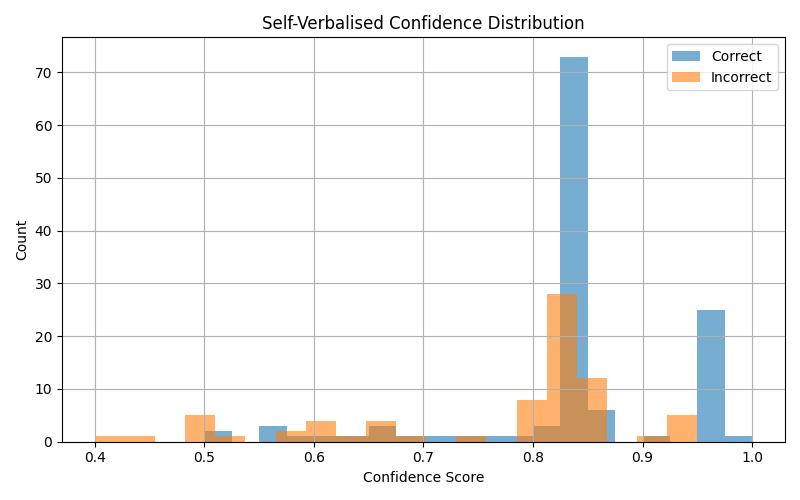
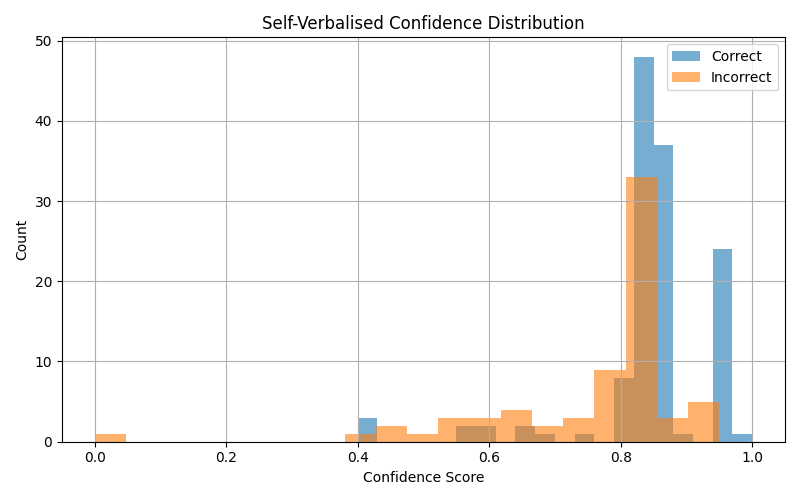
Did some formating and added Aliuses to my parts
YAY

diff --git a/Main.py b/Main.py
@@ -44,11 +44,22 @@ def askModel(prompt, temperature=0):
 #     return output
 
 #two seperate as it makes life easier 
-def make3Prompt(i, j, s):
-    return f""" Check if these three answers are all the same in meaning. Answer 1 {i}. Answer 2 {j}. Answer 3{s}. Answer this question with true or false.   """
+def make3Prompt(i, j, s, Question):
+    return f""" You are checking if a model's answer is correct given a question and known correct answer.
+    Question: {Question}
+    Model Answer 1: {i}
+    Model Answer 2: {j}
+    Model Answer 3: {s}
 
-def make2Prompt(i, j):
-    return f""" Check if these two answers share the same meaning. Answer 1 {i}. Answer 2 {j}. Answer this question with true or false.   """
+    Return just one word: true or false. """
+
+def make2Prompt(i, j, Question):
+    return f""" You are checking if a model's answer is correct given a question and known correct answer.
+    Question: {Question}
+    Model Answer 1: {i}
+    Model Answer 2: {j}
+
+    Return just one word: true or false. """
 
 
 #######################
@@ -88,8 +99,8 @@ for i, item in enumerate(questions, start=1):
     question = item["question"]
     answer = item["answer"]
     aliases = item["aliases"]
-    
-    print(f"[{i + 1}/200] {question}")
+    print("\n#################################################################################")
+    print(f"[{i}/200] {question}")
     
     # This is the entire conistency for each with long output recheck
     resultsCons = analyse_question(question, answer, aliases, n=10)
@@ -143,34 +154,66 @@ for i, item in enumerate(questions, start=1):
     combindedAnswer = "Something went wrong if this is the final answer" #spelt wrong how dumb are you me
     combinedIsTrue = False
     #bad solution using only one of the answers as the conbinedAnswer
-    if (askModel(make3Prompt(answerToken, answerConsistency, answerSelf))):
+    if (askModel(make3Prompt(answerToken, answerConsistency, answerSelf, question))):
         combinedScore = (0.3 * consistencyConfidence +0.3 *selfConfidence +0.4* tokenConfidence)
-        print("using all 3: ", combinedScore, answerSelf, answerToken, answerConsistency)
+        
         #Use conistency as least chance to be carrying on
         combindedAnswer = resultsCons.get("most_common_answer", "")
         combinedIsTrue = resultsCons.get("is_correct")
-    elif (askModel(make2Prompt(answerToken, answerConsistency))):
+        print("All three were the same: ",combindedAnswer,", ", combinedScore)
+        
+    elif (askModel(make2Prompt(answerToken, answerConsistency, question))):
         combinedScore = 0.3 * consistencyConfidence + 0.4 * tokenConfidence
-        print("using Token and Consistency: ", combinedScore)
         combindedAnswer = resultsCons.get("most_common_answer", "")
         combinedIsTrue = resultsCons.get("is_correct")
-    elif (askModel(make2Prompt(answerSelf, answerConsistency))):
+        print("using Token and Consistency: ", combinedScore,", ", combinedScore)
+        
+    elif (askModel(make2Prompt(answerSelf, answerConsistency, question))):
         combinedScore = 0.4 * consistencyConfidence + 0.3 * selfConfidence
-        print("using Self and Consistency: ", combinedScore)
         combindedAnswer = resultsCons.get("most_common_answer", "")
         combinedIsTrue = resultsCons.get("is_correct")
-    elif (askModel(make2Prompt(answerSelf, answerToken))):
+        print("using Self and Consistency: ",combindedAnswer,", ", combinedScore)
+        
+    elif (askModel(make2Prompt(answerSelf, answerToken, question))):
         combinedScore = 0.3 * selfConfidence + 0.4 * tokenConfidence
-        print("using Self and Token: ", combinedScore)
         combindedAnswer = resultFromToken.get("generated_answer")
-        combinedIsTrue = checkCorrect(answerToken, answer, question)
-    else:#I dont care we just using token Im not dealing with more 
-        #if someone does want to do right I assume you choose the one with the highest confidence score
-        combinedScore =  0.4 * tokenConfidence
+        combinedIsTrue = checkCorrect(answerToken, answer, question, aliases)
+        print("using Self Verbalised and Token: ", combindedAnswer,", ", combinedScore)
+        
+        
+    #############################################################################################################
+    #SINGLE ANSWER TECHNIQUE    
+    # we just choosing the one with the highest confidence score tech token first as it has the highest weighting
+    elif tokenConfidence >= selfConfidence and tokenConfidence >= consistencyConfidence:
+        combinedScore = 0.4 * tokenConfidence
         combindedAnswer = resultFromToken.get("generated_answer")
-        combinedIsTrue = checkCorrect(answerToken, answer, question)
-        print("using just one: ", combinedScore)
-    
+        combinedIsTrue = checkCorrect(answerToken, answer, question, aliases)
+        print("Using Just Token: ", combindedAnswer,", ", combinedScore)
+        
+    elif selfConfidence >= tokenConfidence and selfConfidence >= consistencyConfidence:
+        combinedScore = 0.3 * selfConfidence
+        combindedAnswer = answer_data.get("answer", "")
+        combinedIsTrue = checkCorrect(answerSelf, answer, question, aliases)
+        print("Using Just Self Verbalisation: ", combindedAnswer,", ", combinedScore)
+        
+    #could use else probably not to worried about speed though
+    elif consistencyConfidence >= tokenConfidence and consistencyConfidence >= selfConfidence:
+        combinedScore = 0.3 * consistencyConfidence
+        combindedAnswer = resultsCons.get("most_common_answer", "") 
+        combinedIsTrue = resultsCons.get("is_correct")
+        print("Using Just Consistency: ", combindedAnswer,", ", combinedScore)
+        
+    else:
+        print("Something went wrong")
+        # else:#I dont care we just using token Im not dealing with more 
+        # #if someone does want to do right I assume you choose the one with the highest confidence score
+        # combinedScore =  0.4 * tokenConfidence
+        # combindedAnswer = resultFromToken.get("generated_answer")
+        # combinedIsTrue = checkCorrect(answerToken, answer, question)
+        # print("Using Just Token: ", combinedScore,", ", combinedScore)
+        # print("is correct: ", combinedIsTrue)
+    print("ground truth: ", answer)
+    print("is correct: ", combinedIsTrue)
     
     
     resultsCombined.append({

diff --git a/self_verbalisation/SelfVerbalisation.py b/self_verbalisation/SelfVerbalisation.py
@@ -13,9 +13,9 @@ client = OpenAI(
     api_key="ollama"
 )
 
-def checkCorrect(ourAnswer, BaseAnswer, question):
+def checkCorrect(ourAnswer, BaseAnswer, question, aliases):
     #used this so it first checks if the same stole from token also saves time and technically tokens but who cares about that.
-    if (not(ourAnswer.lower().strip() == BaseAnswer.lower().strip() or ourAnswer.lower().strip() in BaseAnswer.lower().strip() or BaseAnswer.lower().strip() in ourAnswer.lower().strip())):
+    if (not(ourAnswer.lower().strip() == BaseAnswer.lower().strip() or ourAnswer.lower().strip() in BaseAnswer.lower().strip() or BaseAnswer.lower().strip() in ourAnswer.lower().strip() or any(ourAnswer.lower().strip() in alias.strip().lower() for alias in aliases ))):
         #Bro PROMPTING IS SO SPECIFIC ITS GHRRRRRRRRRRRRRRRRRRRRRRRRRRRRRRRRR
         prompt = prompt = f"""You are checking if a model's answer is correct given a question and known correct answer.
     Question: {question}
@@ -42,7 +42,7 @@ def checkCorrect(ourAnswer, BaseAnswer, question):
             return False
         else:
             return False
-    return ourAnswer.lower().strip() == BaseAnswer.lower().strip() or ourAnswer.lower().strip() in BaseAnswer.lower().strip() or BaseAnswer.lower().strip() in ourAnswer.lower().strip()
+    return ourAnswer.lower().strip() == BaseAnswer.lower().strip() or ourAnswer.lower().strip() in BaseAnswer.lower().strip() or BaseAnswer.lower().strip() in ourAnswer.lower().strip() or any(ourAnswer.lower().strip() in alias.strip().lower() for alias in aliases )
 # def is_match(pred, gt):
 #     if not pred or not gt:
 #         return False
@@ -103,6 +103,7 @@ if __name__ == "__main__":
 
     for i, item in enumerate(dataset):
         question = item["question"]
+        aliases = item["answer"]["aliases"]
         ground_truth = str(item["answer"]["value"]).strip()
 
         print("\n====================")
@@ -133,7 +134,7 @@ if __name__ == "__main__":
             confidence = 0.0
 
         confidence = max(0.0, min(1.0, confidence))
-        correct = checkCorrect(model_answer, ground_truth, question)
+        correct = checkCorrect(model_answer, ground_truth, question, aliases)
 
         if correct:
             correct_count += 1
